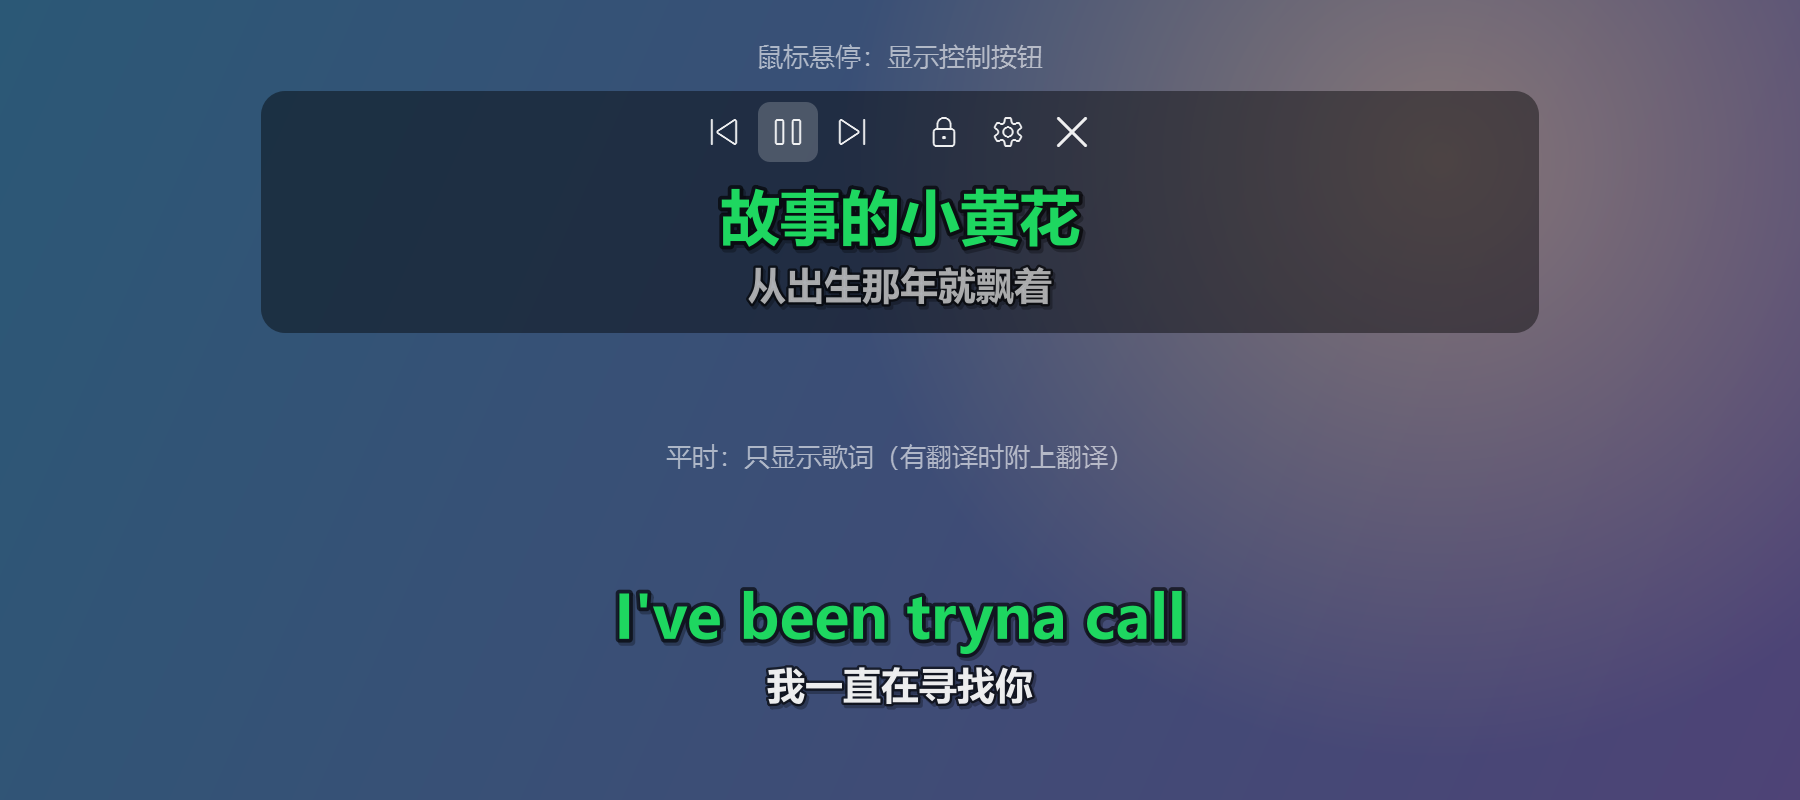
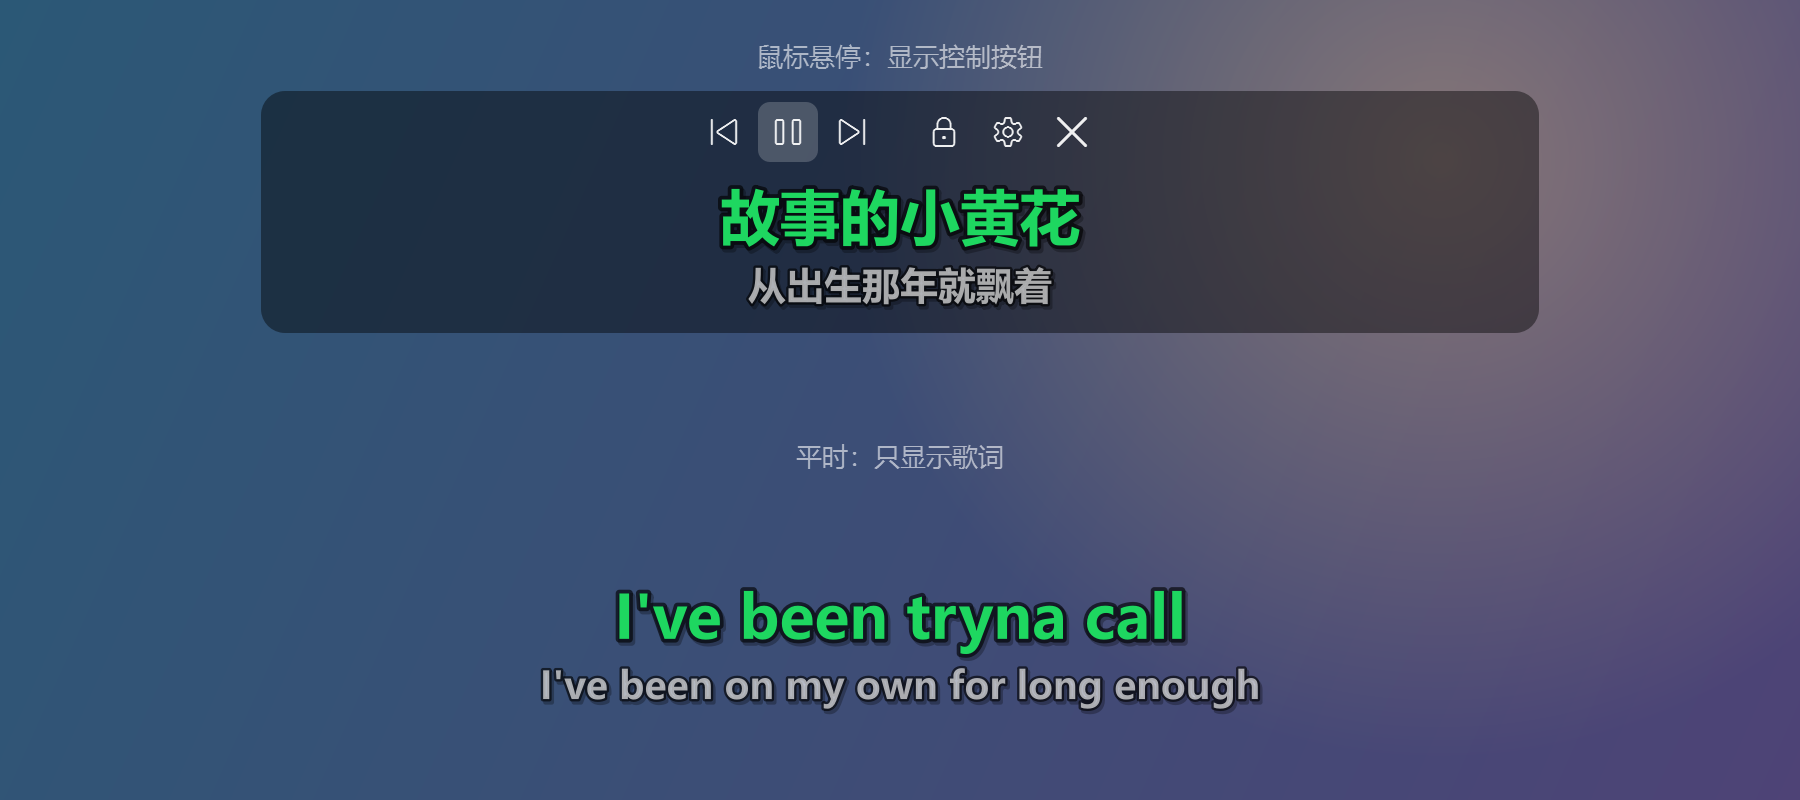
Show original-language lyrics only by default
Translations are off by default; the second line shows the next line instead. "Show translation" in the menu turns them back on.

Changed region(s): [[0.28, 0.8125, 0.7156, 0.9062], [0.3733, 0.5312, 0.6222, 0.5938]]

diff --git a/lyrics.py b/lyrics.py
@@ -279,7 +279,7 @@ def find_lyrics(track: Track, cache_dir: Path, use_cache: bool = True) -> Lyrics
         except Exception:
             log.exception("Corrupted cache file: %s", cache)
 
-    # CJK songs: QQ Music first; everything else: NetEase first (it often has Chinese translations)
+    # CJK songs: QQ Music first (it has the most Chinese-language catalog); everything else: NetEase first
     order = ["qq", "netease", "lrclib"] if CJK.search(track.title + track.artist) else ["netease", "qq", "lrclib"]
     best: tuple[float, Lyrics] | None = None
     errors = 0

diff --git a/app.py b/app.py
@@ -43,7 +43,8 @@ DEFAULTS = {
     "x": None, "y": None, "width": 300,
     "font_family": "Microsoft YaHei UI", "font_size": 30,
     "color": "#ffffff", "highlight": "#1ed760",
-    "locked": False, "second_line": True, "translation": True,
+    "locked": False, "second_line": True,
+    "translation": False,  # show the lyrics source's translation under each line instead of the next line
     # Timing offsets in seconds; positive = lyrics earlier. Lines are timed to when singing starts,
     # so showing them a little early feels in sync.
     "global_offset": 0.4,

diff --git a/README.md b/README.md
@@ -16,7 +16,7 @@ If Windows says "Windows protected your PC", click **More info** → **Run anywa
 
 ## Features
 
-- Lyrics show up automatically while Spotify is open, with a Chinese translation for foreign-language songs
+- Lyrics show up automatically while Spotify is open
 - Lyrics from QQ Music, NetEase Cloud Music and LRCLIB
 - Hover over the lyrics for playback controls; right-click for settings
 - A desktop shortcut shows or hides the lyrics in one click

diff --git a/README.zh-CN.md b/README.zh-CN.md
@@ -16,7 +16,7 @@
 
 ## 功能
 
-- Spotify 打开时自动显示歌词，外文歌附中文翻译
+- Spotify 打开时自动显示歌词
 - 歌词来自 QQ 音乐、网易云音乐和 LRCLIB
 - 鼠标移到歌词上出现播放控制按钮，右键打开设置
 - 桌面快捷方式，点一下显示或隐藏歌词
